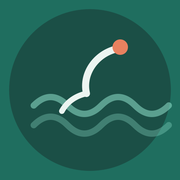
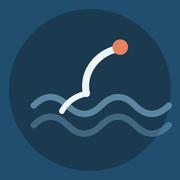
Scope the dark-blue background to the harvest page only
Restore the main app theme back to the ocean blue palette (icons,
manifest, meta colors included) — the previous commit had mistakenly
applied the dark-green revert app-wide instead of scoping it to the
harvest ("แบ่งจับ") page as intended.

Give the harvest page its own distinct dark indigo backdrop (cards,
inputs, table borders) via a harvest-mode class toggled on #app,
layered under the existing orange accent, so it now visually differs
from the rest of the blue-themed app without touching the main theme.

Claude-Session: https://claude.ai/code/session_01NPJJPuwYrZegrDM2w1YF7g

diff --git a/index.html b/index.html
@@ -5,7 +5,7 @@
 <meta name="viewport" content="width=device-width, initial-scale=1.0, maximum-scale=1.0">
 <title>บันทึกฟาร์มกุ้งรายสัปดาห์</title>
 <meta name="description" content="แอปบันทึกข้อมูลฟาร์มกุ้งรายสัปดาห์ ติดตามไซส์กุ้ง อาหาร และ ADG ใช้งานได้แบบออฟไลน์">
-<meta name="theme-color" content="#1F6E5F">
+<meta name="theme-color" content="#1C6FA6">
 <link rel="manifest" href="./manifest.webmanifest">
 <link rel="icon" href="./favicon.ico" sizes="any">
 <link rel="icon" type="image/png" sizes="192x192" href="./icons/icon-192.png">
@@ -19,21 +19,21 @@
 <link href="https://fonts.googleapis.com/css2?family=Taviraj:wght@400;500;600;700&family=IBM+Plex+Sans+Thai:wght@400;500;600;700&display=swap" rel="stylesheet">
 <style>
   :root{
-    --bg:#0A1614;
-    --bg-grad:radial-gradient(1200px 600px at 50% -10%, rgba(47,163,140,.12), transparent 60%);
-    --surface:#132622;
-    --surface-soft:#18332C;
-    --surface-hi:#1E3A32;
-    --ink:#F1F7F4;
-    --ink-soft:#9FB7AE;
-    --ink-faint:#6E8880;
-    --teal-900:#081A18;
-    --teal-700:#1B4F46;
-    --teal-600:#1F6E5F;
-    --teal-500:#2FA38C;
-    --teal-400:#4CC0A6;
-    --heading:#8FE0CB;
-    --teal-100:rgba(47,163,140,.16);
+    --bg:#081824;
+    --bg-grad:radial-gradient(1200px 600px at 50% -10%, rgba(46,147,203,.14), transparent 60%);
+    --surface:#102436;
+    --surface-soft:#152C41;
+    --surface-hi:#1B3750;
+    --ink:#EFF6FA;
+    --ink-soft:#9DB7C8;
+    --ink-faint:#6B8698;
+    --teal-900:#061019;
+    --teal-700:#1A4E72;
+    --teal-600:#1C6FA6;
+    --teal-500:#2E93CB;
+    --teal-400:#52B7E0;
+    --heading:#8FDCEF;
+    --teal-100:rgba(46,147,203,.16);
     --coral:#E8815F;
     --coral-hi:#F0946F;
     --coral-soft:rgba(232,129,95,.16);
@@ -42,8 +42,8 @@
     --orange:#EA8C3B;
     --orange-hi:#F2A25C;
     --orange-soft:rgba(234,140,59,.16);
-    --line:#22403A;
-    --line-soft:#1B322C;
+    --line:#1E3A4E;
+    --line-soft:#17293A;
     --danger:#E2695A;
     --radius-sm:10px;
     --radius:16px;
@@ -65,7 +65,7 @@
   h1,h2,h3,.display{ font-family:'Taviraj', serif; font-weight:600; letter-spacing:.2px; }
   button{ font-family:inherit; }
   input,select,textarea{ font-family:inherit; }
-  ::selection{ background:var(--teal-500); color:#04120F; }
+  ::selection{ background:var(--teal-500); color:#04121C; }
 
   #app{
     max-width:720px; margin:0 auto; min-height:100vh; background:var(--bg);
@@ -123,7 +123,7 @@
   .farm-tab:hover{ border-color:var(--teal-500); color:var(--ink); }
   .farm-tab.active{
     background:linear-gradient(135deg, var(--teal-500), var(--teal-600));
-    border-color:transparent; color:#fff; box-shadow:0 4px 14px rgba(47,163,140,.35);
+    border-color:transparent; color:#fff; box-shadow:0 4px 14px rgba(46,147,203,.35);
     font-weight:600;
   }
 
@@ -190,7 +190,7 @@
   .field select{ color-scheme:dark; }
   .field input[type=date]{ color-scheme:dark; }
   .field input:focus, .field select:focus, .field textarea:focus{
-    outline:none; border-color:var(--teal-500); box-shadow:0 0 0 3px rgba(47,163,140,.22);
+    outline:none; border-color:var(--teal-500); box-shadow:0 0 0 3px rgba(46,147,203,.22);
   }
   .field-row{ display:grid; grid-template-columns:1fr 1fr; gap:10px; }
   .hint{ font-size:11.5px; color:var(--ink-faint); margin-top:5px; }
@@ -235,7 +235,7 @@
   .pathogen-entry .pe-worse{ font-size:10.5px; color:var(--coral); font-weight:700; }
   .pathogen-entry .pe-text{ font-size:13.5px; color:var(--ink); line-height:1.55; }
 
-  /* Harvest ("แบ่งจับ") page: orange accent so it visually reads as a distinct mode */
+  /* Harvest ("แบ่งจับ") page: distinct dark-blue backdrop + orange accent so it visually reads as a separate mode */
   .harvest-page{ display:contents; }
   .harvest-page .back-btn{ color:var(--orange); border-color:rgba(234,140,59,.35); }
   .harvest-page .pond-head h2{ color:var(--orange); }
@@ -247,6 +247,18 @@
     border-color:var(--orange); box-shadow:0 0 0 3px rgba(234,140,59,.22);
   }
   .harvest-page table.rec-table th{ color:var(--orange); opacity:.85; }
+
+  #app.harvest-mode{
+    background:#0B1030;
+    background-image:radial-gradient(1200px 600px at 50% -10%, rgba(234,140,59,.10), transparent 60%);
+  }
+  #app.harvest-mode .card{ background:#141A3D; }
+  #app.harvest-mode .field input, #app.harvest-mode .field select, #app.harvest-mode .field textarea{
+    background:#1B2350; border-color:#2C3670;
+  }
+  #app.harvest-mode table.rec-table th{ border-bottom-color:#2C3670; }
+  #app.harvest-mode table.rec-table td{ border-bottom-color:#212A58; }
+  #app.harvest-mode .back-btn{ background:#141A3D; }
 
   .summary-strip{ display:flex; gap:10px; margin:16px 0; }
   .summary-box{
@@ -283,7 +295,7 @@
   }
   .overview-table tr.ov-zone-row:hover td{ background:var(--surface-hi); }
 
-  .panel-card{ border-color:var(--teal-500); box-shadow:0 0 0 3px rgba(47,163,140,.14), var(--shadow-sm); }
+  .panel-card{ border-color:var(--teal-500); box-shadow:0 0 0 3px rgba(46,147,203,.14), var(--shadow-sm); }
 
   .batch-list{ display:flex; flex-direction:column; gap:2px; }
   .batch-row{
@@ -321,7 +333,7 @@
 
   .login-wrap{
     min-height:100vh; display:flex; align-items:center; justify-content:center; padding:24px;
-    background-image:radial-gradient(900px 500px at 50% 0%, rgba(47,163,140,.16), transparent 65%);
+    background-image:radial-gradient(900px 500px at 50% 0%, rgba(46,147,203,.16), transparent 65%);
   }
   .login-card{
     width:100%; max-width:340px; background:var(--surface); border:1px solid var(--line); border-radius:var(--radius-lg);
@@ -330,7 +342,7 @@
   .login-card .wave{
     width:52px; height:52px; margin:0 auto 14px auto; color:var(--heading);
     background:linear-gradient(135deg, var(--teal-500), var(--teal-700)); border-radius:16px; padding:12px;
-    box-shadow:0 8px 20px rgba(47,163,140,.3);
+    box-shadow:0 8px 20px rgba(46,147,203,.3);
   }
   .login-card h1{ font-size:20px; margin:0 0 5px 0; color:var(--heading); }
   .login-card p{ font-size:12.5px; color:var(--ink-soft); margin:0 0 20px 0; }
@@ -375,7 +387,7 @@ const ICONS = {
   gear: `<svg viewBox="0 0 24 24" fill="none" xmlns="http://www.w3.org/2000/svg"><path d="M12 15a3 3 0 100-6 3 3 0 000 6z" stroke="currentColor" stroke-width="1.7"/><path d="M19.4 13.5a1.7 1.7 0 00.34 1.87l.06.06a2.05 2.05 0 11-2.9 2.9l-.06-.06a1.7 1.7 0 00-1.87-.34 1.7 1.7 0 00-1 1.55V20a2.05 2.05 0 01-4.1 0v-.1a1.7 1.7 0 00-1.1-1.55 1.7 1.7 0 00-1.87.34l-.06.06a2.05 2.05 0 11-2.9-2.9l.06-.06a1.7 1.7 0 00.34-1.87 1.7 1.7 0 00-1.55-1H4a2.05 2.05 0 010-4.1h.1a1.7 1.7 0 001.55-1.1 1.7 1.7 0 00-.34-1.87l-.06-.06a2.05 2.05 0 112.9-2.9l.06.06a1.7 1.7 0 001.87.34H10a1.7 1.7 0 001-1.55V4a2.05 2.05 0 014.1 0v.1a1.7 1.7 0 001 1.55 1.7 1.7 0 001.87-.34l.06-.06a2.05 2.05 0 112.9 2.9l-.06.06a1.7 1.7 0 00-.34 1.87V10a1.7 1.7 0 001.55 1h.1a2.05 2.05 0 010 4.1h-.1a1.7 1.7 0 00-1.55 1z" stroke="currentColor" stroke-width="1.4"/></svg>`,
   back: `<svg width="16" height="16" viewBox="0 0 24 24" fill="none" xmlns="http://www.w3.org/2000/svg"><path d="M15 18l-6-6 6-6" stroke="currentColor" stroke-width="2.2" stroke-linecap="round" stroke-linejoin="round"/></svg>`,
   plus: `<svg width="16" height="16" viewBox="0 0 24 24" fill="none" xmlns="http://www.w3.org/2000/svg"><path d="M12 5v14M5 12h14" stroke="currentColor" stroke-width="2.4" stroke-linecap="round"/></svg>`,
-  shrimp: `<svg width="34" height="34" viewBox="0 0 24 24" fill="none" xmlns="http://www.w3.org/2000/svg"><circle cx="12" cy="12" r="10" fill="#DCEBE6"/><path d="M8 15c1-4 3-7 6-8" stroke="#14584F" stroke-width="1.5" stroke-linecap="round"/><circle cx="15" cy="8" r="1.3" fill="#D9694A"/></svg>`,
+  shrimp: `<svg width="34" height="34" viewBox="0 0 24 24" fill="none" xmlns="http://www.w3.org/2000/svg"><circle cx="12" cy="12" r="10" fill="#D6EAF5"/><path d="M8 15c1-4 3-7 6-8" stroke="#123F5C" stroke-width="1.5" stroke-linecap="round"/><circle cx="15" cy="8" r="1.3" fill="#D9694A"/></svg>`,
 };
 
 const FARM_SEED = ['ฟาร์ม 1','ฟาร์ม 2','ฟาร์ม 3','ฟาร์ม 4','ฟาร์ม 5'];
@@ -576,6 +588,7 @@ function render(){
     app.innerHTML = `<div class="loading">กำลังโหลด…</div>`;
     return;
   }
+  app.classList.toggle('harvest-mode', !!viewingHarvestPondId);
   try{
     let html = `
       <div class="app-banner">ซิงก์ข้อมูลกับทีมแบบเรียลไทม์ · ใช้งานออฟไลน์ได้</div>
@@ -1209,7 +1222,7 @@ function svgLineChart({labels, values, color, fillColor}){
     const gv = min + (max-min)*g/gridCount;
     const gy = yFor(gv);
     gridLines += `<line x1="${padL}" y1="${gy.toFixed(1)}" x2="${width-padR}" y2="${gy.toFixed(1)}" stroke="rgba(255,255,255,0.08)" stroke-width="1"/>`;
-    gridLines += `<text x="${padL-8}" y="${(gy+3.5).toFixed(1)}" text-anchor="end" font-size="10" fill="#6E8880">${gv.toFixed(Math.abs(gv)<10?1:0)}</text>`;
+    gridLines += `<text x="${padL-8}" y="${(gy+3.5).toFixed(1)}" text-anchor="end" font-size="10" fill="#6B8698">${gv.toFixed(Math.abs(gv)<10?1:0)}</text>`;
   }
 
   let pathSegments = [], currentSeg = [];
@@ -1237,7 +1250,7 @@ function svgLineChart({labels, values, color, fillColor}){
   let pointsHtml = '';
   valid.forEach(d=>{
     const x = xFor(d.i), y = yFor(d.v);
-    pointsHtml += `<circle cx="${x.toFixed(1)}" cy="${y.toFixed(1)}" r="${pointRadius}" fill="${color}" stroke="#0C1917" stroke-width="1.5"/>`;
+    pointsHtml += `<circle cx="${x.toFixed(1)}" cy="${y.toFixed(1)}" r="${pointRadius}" fill="${color}" stroke="#081824" stroke-width="1.5"/>`;
   });
 
   let xLabelsHtml = '';
@@ -1246,7 +1259,7 @@ function svgLineChart({labels, values, color, fillColor}){
   labels.forEach((lab,i)=>{
     if(i%step===0 || i===n-1){
       const shortLab = lab.split('(')[0].trim();
-      xLabelsHtml += `<text x="${xFor(i).toFixed(1)}" y="${height-6}" text-anchor="middle" font-size="10" fill="#6E8880">${escapeHtml(shortLab)}</text>`;
+      xLabelsHtml += `<text x="${xFor(i).toFixed(1)}" y="${height-6}" text-anchor="middle" font-size="10" fill="#6B8698">${escapeHtml(shortLab)}</text>`;
     }
   });
 
@@ -1265,7 +1278,7 @@ function drawChartsFor(records, releaseDate){
   const sizeEl = document.getElementById('chart-size');
   if(sizeEl){
     const values = records.map(r=>{ const w=weightFromCount(r.sizeCount); return w? +w.toFixed(2):null; });
-    sizeEl.innerHTML = svgLineChart({labels, values, color:'#2FA38C', fillColor:'rgba(47,163,140,.18)'});
+    sizeEl.innerHTML = svgLineChart({labels, values, color:'#2E93CB', fillColor:'rgba(46,147,203,.18)'});
   }
 
   const feedEl = document.getElementById('chart-feed');
